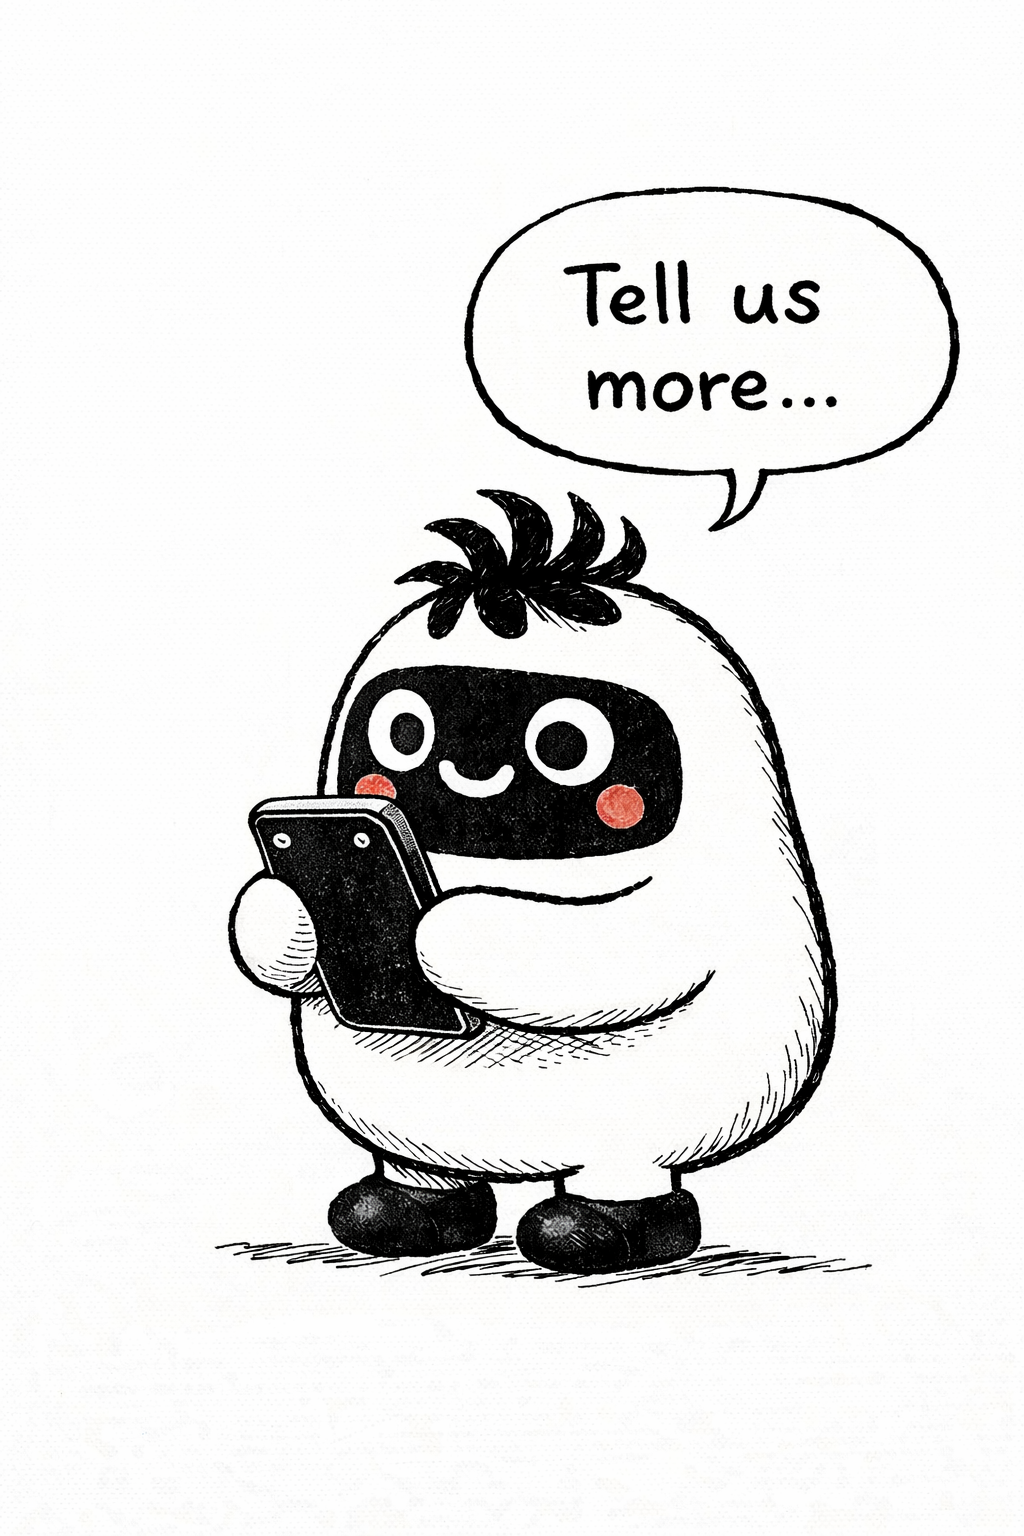
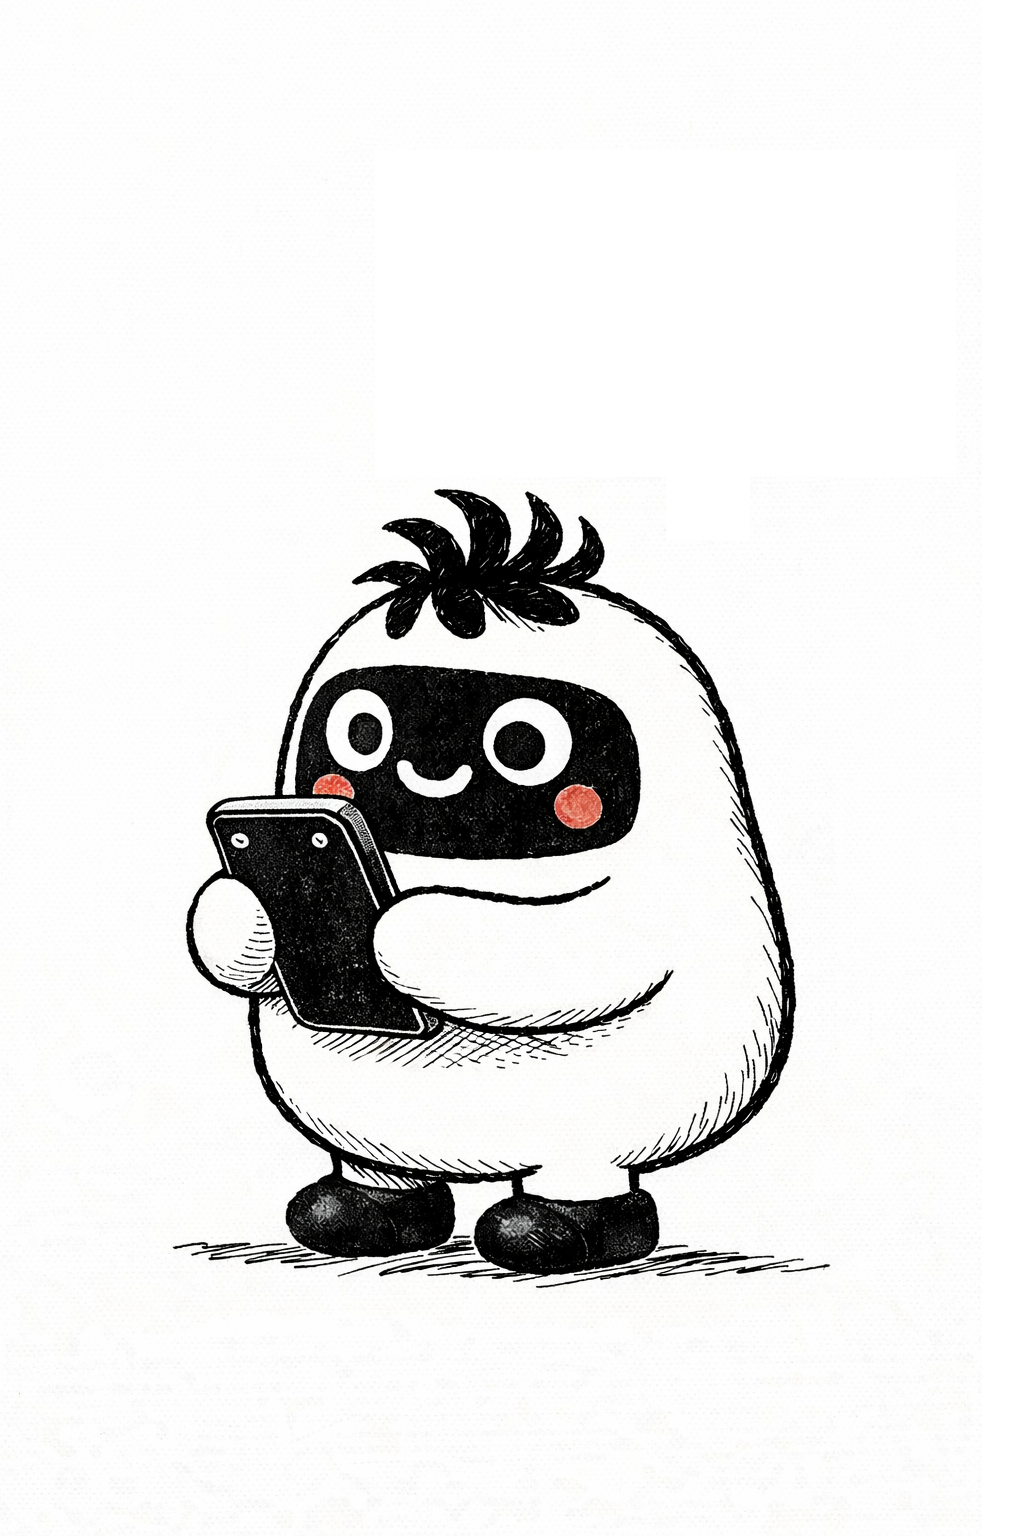
Fixed onboarding visual

diff --git a/src/components/sections/Onboarding/CreateAccount.jsx b/src/components/sections/Onboarding/CreateAccount.jsx
@@ -7,16 +7,15 @@ function CreateAccount({ onNext, onFinish }) {
   const [showPassword, setShowPassword] = useState(false);
 
   return (
-    <div className="relative flex h-full min-h-full w-full flex-col bg-white px-6 text-left text-white">
-      <div
-        className="absolute inset-0 bg-white"
-        style={{
-          backgroundImage: `url(${createAccountImage})`,
-          backgroundRepeat: "no-repeat",
-          backgroundSize: "auto 100%",
-          backgroundPosition: "right center",
-        }}
-      />
+    <div
+      className="relative flex min-h-screen w-full flex-col bg-white px-6 text-left text-white"
+      style={{
+        backgroundImage: `url(${createAccountImage})`,
+        backgroundRepeat: "no-repeat",
+        backgroundSize: "cover",
+        backgroundPosition: "center",
+      }}
+    >
       {/* Bottom content */}
       <div className="relative z-10 mx-auto mt-auto w-full max-w-sm pt-[50vh] pb-8 text-left md:pt-0 md:pb-10">
         <div className="rounded-[2rem] bg-black/55 px-5 py-6 shadow-[0_16px_40px_rgba(0,0,0,0.35)] backdrop-blur-[2px]">

diff --git a/src/components/sections/Onboarding/OnboardingFlow.jsx b/src/components/sections/Onboarding/OnboardingFlow.jsx
@@ -11,7 +11,7 @@ function OnboardingFlow({ onFinish }) {
   const handleDotClick = (index) => setStep(index);
 
   return (
-    <div className="flex h-full min-h-full w-full flex-col justify-between bg-black text-white">
+    <div className="flex h-full min-h-full w-full flex-col justify-between bg-white text-white">
       {/* Dynamic section content */}
       <div className="flex min-h-0 flex-1 items-stretch overflow-y-auto">
         {step === 0 ? (

diff --git a/src/components/sections/Onboarding/TellUsMore.jsx b/src/components/sections/Onboarding/TellUsMore.jsx
@@ -20,8 +20,8 @@ function TellUsMore({ onBack, onFinish }) {
         style={{
           backgroundImage: `url(${createAccountImage})`,
           backgroundRepeat: "no-repeat",
-          backgroundSize: "auto 100%",
-          backgroundPosition: "right center",
+          backgroundSize: "cover",
+          backgroundPosition: "center",
         }}
       />
       <button

diff --git a/src/components/App.jsx b/src/components/App.jsx
@@ -526,6 +526,8 @@ const App = ({ transportType, region = "" }) => {
       ? "bg-[#2F2C2F]"
       : activeComponent === "progress"
         ? "bg-[#EAB7AF]"
+      : activeComponent === "onboarding"
+        ? "bg-white"
       : activeComponent === "interactive"
           ? "bg-black"
           : activeComponent === "dot-complete"
